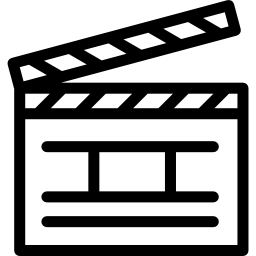
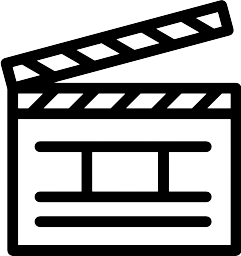
11-07-08-47

diff --git a/src/assets/style.css b/src/assets/style.css
@@ -83,7 +83,7 @@ footer>h2 {
     height: calc(100vh - 1rem);
     /* background-color: #333333; */
     background: rgb(2, 0, 36);
-    background: linear-gradient(90deg, rgba(2, 0, 36, 1) 0%, rgba(9, 9, 121, 1) 33%, rgba(5, 93, 176, 1) 66%, rgba(0, 212, 255, 1) 100%);
+    background: linear-gradient(90deg, rgba(2, 0, 36, 1) 0%, rgba(9, 9, 121, 1) 30%, rgba(5, 93, 176, 1) 65%, rgba(0, 212, 255, 1) 100%);
 }
 
 
@@ -235,9 +235,9 @@ footer>h2 {
 }
 
 .presentation-img {
-    width: 100%;
-
+    width: 100%;    
     z-index: 900;
+    aspect-ratio: 1/1;
 }
 
 
